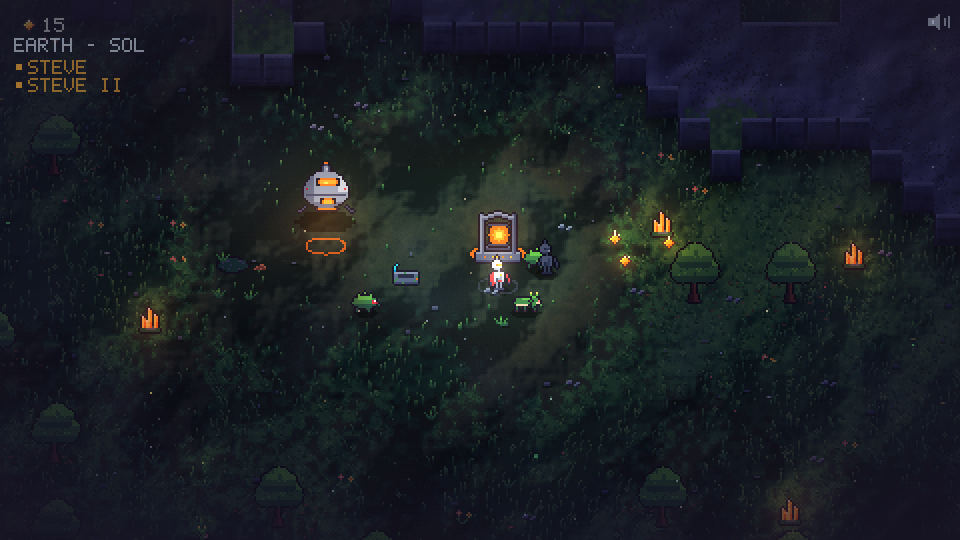
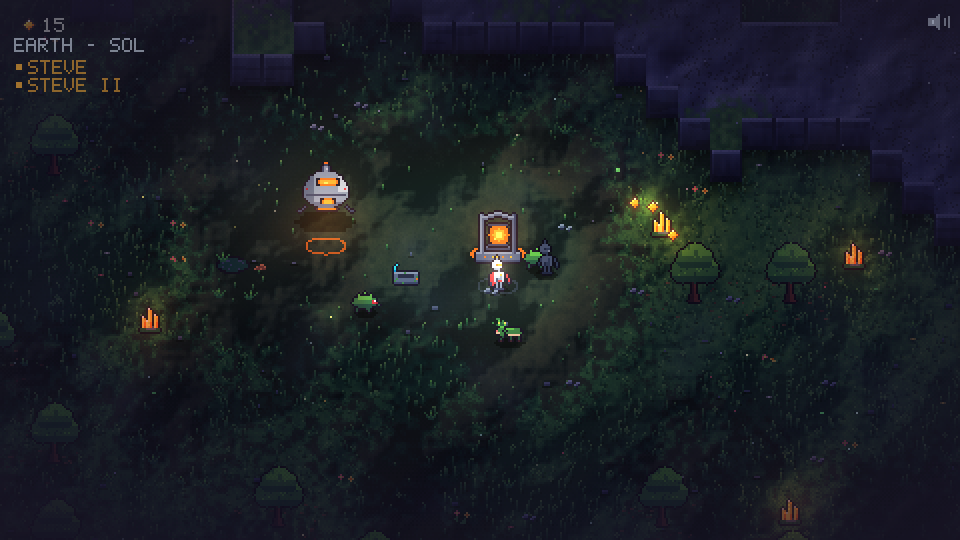
Needs: food, water, company, purpose; furnishings that do something
Copies now have needs (src/data/needs.json) that tick live and from banked
offline time: they eat and drink from the supplies when low, fill company
near the original or each other, and purpose with finished work and wants
met. Mood scales their light. Lamps in the warren stretch waking hours,
murals lift mood, shelves add storage, pools give water, planters food.
The mind is told how it feels; the journal shows it.

Claude-Session: https://claude.ai/code/session_01GKvm73nq8gpKr5haLG8Y51

Changed region(s): [[0.625, 0.3556, 0.7188, 0.4741], [0.625, 0.4148, 0.6875, 0.5037], [0.5, 0.5333, 0.5625, 0.6222]]

diff --git a/src/entities/Npc.ts b/src/entities/Npc.ts
@@ -4,8 +4,9 @@ import Phaser from 'phaser';
 import { sound, type Instrument, type Mood, type Tempo } from '../audio/Sound';
 import { anim } from '../core/assets';
 import { bodyFor, ensureBodyTexture, kitColor } from '../core/body';
-import { MIND, PALETTE, PLAYER, VILLAGE, WARREN } from '../core/data';
+import { MIND, NEEDS, PALETTE, PLAYER, VILLAGE, WARREN } from '../core/data';
 import { DRIFT, stat } from '../core/drift';
+import { session } from '../core/session';
 import type { Light } from '../fx/Lighting';
 import type { ReplicantSave } from '../net/store';
 import type { PlanetScene } from '../scenes/PlanetScene';
@@ -46,6 +47,10 @@ export class Npc {
   z = 0;
   /** 0 rested .. 1 weary: climbs while awake, cleared by a sleep in a resting station */
   weary = 0;
+  /** food, water, company, purpose: 0 empty .. 1 full (src/data/needs.json) */
+  needs: { food: number; water: number; company: number; purpose: number };
+  private nextNeedsSave = 0;
+  private nextEat = 0;
   private nextYawn = 0;
   /** the night level at which this copy turns in: its chosen bedtime, else early birds and night owls from its id */
   private seedNight: number;
@@ -75,8 +80,70 @@ export class Npc {
     this.seedNight = lo + ((this.voiceSeed >>> 8) % 100) / 100 * (hi - lo);
     // how tired it is carries over; a copy that slept while you were away comes back rested (Warren checks the bed)
     this.weary = data.traits.weary ?? Math.min(0.6, ((this.voiceSeed >>> 16) % 100) / 160);
+    this.needs = { food: 0.8, water: 0.8, company: 0.7, purpose: 0.7, ...(data.traits.needs ?? {}) };
     this.sync();
     if (data.traits.blank) this.setBlank();
+  }
+
+  /** rest, food, water, company and purpose averaged, lifted a little by the warren's murals. */
+  get mood() {
+    const n = this.needs;
+    const base = (1 - this.weary + n.food + n.water + n.company + n.purpose) / 5;
+    return Math.min(1, base + Math.min(NEEDS.muralMoodMax, this.scene.warren.muralCount * NEEDS.muralMood));
+  }
+  get moodWord(): 'content' | 'low' | 'bleak' { const m = this.mood; return m > 0.6 ? 'content' : m > 0.35 ? 'low' : 'bleak'; }
+  /** Which needs are low, in words ("hungry (food 20%)"). */
+  lowNeeds(): string[] {
+    const out: string[] = [];
+    const n = this.needs, pct = (v: number) => `${Math.round(v * 100)}%`;
+    if (this.weary > 0.8) out.push(`weary (rest ${pct(1 - this.weary)})`);
+    if (n.food < NEEDS.lowBelow) out.push(`hungry (food ${pct(n.food)})`);
+    if (n.water < NEEDS.lowBelow) out.push(`thirsty (water ${pct(n.water)})`);
+    if (n.company < NEEDS.lowBelow) out.push(`lonely (company ${pct(n.company)})`);
+    if (n.purpose < NEEDS.lowBelow) out.push(`aimless (purpose ${pct(n.purpose)})`);
+    return out;
+  }
+
+  /** Finished something: purpose fills (more for a want met). */
+  onWorked(want = false) {
+    this.needs.purpose = Math.min(1, this.needs.purpose + (want ? NEEDS.purposeOnWant : NEEDS.purposeOnWork));
+  }
+
+  /** Needs change with time, here or while nobody was here (hours); eats and drinks from the supplies. */
+  advanceNeeds(hours: number, time: number) {
+    const n = this.needs, d = NEEDS.decayHours;
+    n.food = Math.max(0, n.food - hours / d.food);
+    n.water = Math.max(0, n.water - hours / d.water);
+    n.purpose = Math.max(0, n.purpose - hours / d.purpose);
+    const soc = this.temper?.sociability;
+    const p = this.scene.player;
+    const near = (!this.scene.visit && p.alive && Math.hypot(p.x - this.x, p.y - this.y) < NEEDS.companyNearPx)
+      || this.scene.npcs.some((o) => o !== this && !o.below && Math.hypot(o.x - this.x, o.y - this.y) < NEEDS.companyNearPx * 0.7);
+    const rate = soc === 'solitary' ? 0.5 : soc === 'clingy' ? 1.5 : 1;
+    n.company = near && hours < 0.01 ? Math.min(1, n.company + (hours * NEEDS.companyGainPerHour) / rate) : Math.max(0, n.company - (hours * rate) / d.company);
+    // eat and drink from the shared supplies when low (one unit each, a short while apart)
+    if (time > this.nextEat) {
+      const w = this.scene.warren;
+      for (const [need, mat] of [['food', 'food'], ['water', 'water']] as const) {
+        if (n[need] < NEEDS.eatBelow && (w.supplies[mat] ?? 0) >= 1) {
+          w.supplies[mat] -= 1; this.scene.markSupplies();
+          n[need] = Math.min(1, n[need] + NEEDS.restoreOnEat);
+          this.nextEat = time + 4000;
+          if (hours < 0.01) this.scene.fx.floatIcon(this.x, this.y - 22, 'supplies', (mat === 'food' ? 4 : 3));
+        }
+      }
+    }
+  }
+
+  /** Writes needs and weariness to its row now and then (not for screenshot copies). */
+  private saveNeeds(time: number, force = false) {
+    if (!force && time < this.nextNeedsSave) return;
+    this.nextNeedsSave = time + 180_000;
+    const st = session.store;
+    if (!st || this.scene.shot || this.data.id.startsWith('fake') || this.data.id === 'pending') return;
+    this.data.traits.needs = { ...this.needs };
+    this.data.traits.weary = Math.round(this.weary * 100) / 100;
+    st.saveReplicant(this.data).catch(() => undefined);
   }
 
   /** Born blank: grey, dim and still by the Replicator until its first wake makes it itself. */
@@ -224,6 +291,7 @@ export class Npc {
           if (this.swings >= c.swings) {
             this.chore = null;
             c.done();
+            this.onWorked();
             this.hop();
             this.state = 'idle';
             this.until = time + 1500;
@@ -241,6 +309,7 @@ export class Npc {
           const job = this.job!;
           if (this.swings >= VILLAGE.hammerSwings) {
             this.scene.village.complete(job);
+            this.onWorked();
             this.job = null;
             if (dp < 220) sound.build();
             this.hop();
@@ -270,9 +339,13 @@ export class Npc {
         break;
     }
 
-    // weariness builds while awake; a weary copy is slower, dimmer, and yawns now and then
-    this.weary = Math.min(1, this.weary + dt / (WARREN.rest.wearyAfterMinutes * 60_000));
-    this.light.intensity = 0.75 * (1 - 0.45 * this.weary);
+    // weariness builds while awake (lamps in the warren slow it); needs tick; the light shows the mood
+    const lampBonus = Math.min(NEEDS.lampWakeMax, this.scene.warren.lampCount * NEEDS.lampWakeBonus);
+    this.weary = Math.min(1, this.weary + ((1 - lampBonus) * dt) / (WARREN.rest.wearyAfterMinutes * 60_000));
+    this.advanceNeeds(dt / 3_600_000, time);
+    this.saveNeeds(time);
+    const [lo, hi] = NEEDS.moodLight;
+    this.light.intensity = 0.75 * (lo + (hi - lo) * this.mood) * (1 - 0.3 * this.weary);
     if (this.weary > 0.7 && time > this.nextYawn && (this.state === 'idle' || this.state === 'walk')) {
       this.nextYawn = time + 9000 + Math.random() * 12000;
       squash(this.scene, this.sprite, 0.9, 1.12, 260);

diff --git a/src/scenes/PlanetScene.ts b/src/scenes/PlanetScene.ts
@@ -1252,6 +1252,8 @@ export class PlanetScene extends Phaser.Scene {
       hasWorkbench: this.warren.hasWorkbench,
       entranceDug: this.warren.opened,
       shortages: this.warren.shortages(),
+      needs: npc.lowNeeds(),
+      mood: npc.moodWord,
       wants: (npc.data.traits.wants ?? []).map((w, i) => `${i + 1}. ${w.text} (${w.category}${w.done ? ', done' : ''})`),
       planet: this.placeLabel,
       biome: this.planet.subtitle ?? this.planet.id,
@@ -1339,7 +1341,9 @@ export class PlanetScene extends Phaser.Scene {
           this.mindLog.push({ t: this.mindClock, text: `${was} became itself: it is ${npc.data.name} now` });
           this.game.events.emit('notice', hear ? `${was.toUpperCase()} IS ${npc.data.name.toUpperCase()} NOW` : `${was.toUpperCase()} HAS BECOME ITSELF`);
         } else if (a.type === 'wants' && a.wants) {
+          const before = (npc.data.traits.wants ?? []).filter((w) => w.done).length;
           npc.data.traits.wants = a.wants;
+          if (a.wants.filter((w) => w.done).length > before) { npc.onWorked(true); this.mindLog.push({ t: this.mindClock, text: `${npc.data.name} got something it wanted` }); }
         } else if (a.type === 'dig') {
           this.warren.dig(npc, a);
         } else if (a.type === 'furnish') {
@@ -1455,7 +1459,9 @@ export class PlanetScene extends Phaser.Scene {
     for (const r of this.everyone) names[r.id] = r.name;
     if (session.replicant) names[session.replicant.id] = session.replicant.name;
     const nameOf = (id: string) => names[id] ?? this.npcs.find((n) => n.data.id === id)?.data.name ?? 'someone';
-    openJournal({ place: this.placeLabel, canHear: this.canHear(), copies: this.npcs.map((n) => n.data), names, journal: j, warren: this.warren.data.rooms.length ? describeWarren(this.warren.data, null, nameOf) : [], supplies: this.npcs.length ? this.warren.describeSupplies() : undefined, shortages: this.warren.shortages() });
+    const feelings: Record<string, string> = {};
+    for (const n of this.npcs) feelings[n.data.id] = `${n.moodWord}${n.lowNeeds().length ? ': ' + n.lowNeeds().join(', ') : ''}`;
+    openJournal({ place: this.placeLabel, canHear: this.canHear(), copies: this.npcs.map((n) => n.data), names, journal: j, feelings, warren: this.warren.data.rooms.length ? describeWarren(this.warren.data, null, nameOf) : [], supplies: this.npcs.length ? this.warren.describeSupplies() : undefined, shortages: this.warren.shortages() });
   }
 
   /** Copies bring in what they gathered while you were away: a stream of Embers into the Replicator. */

diff --git a/src/entities/Warren.ts b/src/entities/Warren.ts
@@ -150,6 +150,16 @@ export class Warren {
     this.scene.markSupplies();
   }
 
+  /** Lamps and murals in dug rooms: lamps stretch the copies' waking hours, murals lift their mood. */
+  get lampCount() {
+    const dug = new Set(['entrance', ...this.data.rooms.filter((r) => r.dug).map((r) => r.id)]);
+    return this.data.items.filter((i) => i.kind === 'lamp' && dug.has(i.room)).length;
+  }
+  get muralCount() {
+    const dug = new Set(['entrance', ...this.data.rooms.filter((r) => r.dug).map((r) => r.id)]);
+    return this.data.items.filter((i) => i.kind === 'mural' && dug.has(i.room)).length;
+  }
+
   get hasWorkbench() {
     const dug = new Set(['entrance', ...this.data.rooms.filter((r) => r.dug).map((r) => r.id)]);
     return this.data.items.some((i) => i.kind === 'workbench' && dug.has(i.room));
@@ -184,6 +194,8 @@ export class Warren {
     if (hours <= 0.05) return;
     for (const [m, perHour] of Object.entries(this.production())) this.add(m, perHour * hours);
     if (!this.scene.npcs.length) return;
+    // the copies got hungry, thirsty and lonely meanwhile, and ate what there was
+    for (const n of this.scene.npcs) n.advanceNeeds(hours, 0);
     let dug = 0;
     if (!this.data.entrance!.dug && hours >= 0.25) { this.data.entrance!.dug = true; this.add('stone', SUPPLIES.entrance.yield.stone); this.add('soil', SUPPLIES.entrance.yield.soil); dug++; }
     for (const r of [...this.planned].sort((a, b) => a.at - b.at)) {
@@ -414,6 +426,7 @@ export class Warren {
         this.view?.onSwing(b);
         if (b.swings >= WARREN.digSwings[room.size]) {
           this.completeRoom(room, b.npc);
+          b.npc.onWorked();
           this.afterWork(b);
         }
       } else if (b.task === 'furnish') {
@@ -422,7 +435,7 @@ export class Warren {
         b.nextSwingAt = this.clock + WARREN.swingMs;
         this.view?.onSwing(b);
         if (b.swings >= 5) {
-          this.furnish(b.npc, { type: 'furnish', item: 'rest', room: b.room!.name, forId: b.npc.data.id });
+          if (this.furnish(b.npc, { type: 'furnish', item: 'rest', room: b.room!.name, forId: b.npc.data.id })) b.npc.onWorked();
           this.afterWork(b);
         }
       } else if (this.clock >= b.until) {

diff --git a/supabase/functions/mind/index.ts b/supabase/functions/mind/index.ts
@@ -49,6 +49,8 @@ interface Context {
   hasWorkbench?: boolean;
   entranceDug?: boolean;
   shortages?: string[];
+  needs?: string[];               // low needs in words
+  mood?: "content" | "low" | "bleak";
 }
 
 interface Replicant {
@@ -301,6 +303,7 @@ Deno.serve(async (req) => {
     lines.push(context.where === "warren" ? `You are below, in the warren.` : `You are on the surface by the base.`);
     if (context.around?.length) lines.push(`Around you: ${context.around.join("; ")}.`);
     lines.push(`You are ${context.weariness ?? "rested"}.${context.hasRest ? "" : context.warren?.length ? " You have no resting station of your own: furnish a dug room with item rest, for me." : " You have nowhere to sleep yet."}`);
+    lines.push(`You feel ${context.mood ?? "content"}${context.needs?.length ? `: ${context.needs.join(", ")}` : ""}. (Food comes from planters and gardens, water from a pool, company from the others and the original, purpose from finished work and wants met. A low need is a good reason for a want.)`);
     if (context.warren?.length) lines.push(`The warren (${context.warrenFull ? "no room for more digging" : "there is space to dig more"}):\n${context.warren.join("\n")}\nYou may name these rooms: ${(context.warrenRooms ?? []).join(", ")}.`);
     else lines.push(`Nothing is dug beneath the base yet. The warren begins with the first dig_room (beside "Entrance").`);
     if (context.supplies) {

diff --git a/src/net/store.ts b/src/net/store.ts
@@ -29,6 +29,8 @@ export interface ReplicantSave {
     body?: Body;
     temperament?: Temperament;
     wants?: Want[];
+    /** 0 empty .. 1 full (src/data/needs.json); rest is 1 - weary */
+    needs?: { food: number; water: number; company: number; purpose: number };
   };
   stats?: Partial<Record<'speed' | 'light' | 'gather', number>>;
   parent_id?: string | null;
@@ -165,6 +167,9 @@ export interface MindContext {
   entranceDug: boolean;
   /** what waits on what ("Hearth waits for 2 more wood") */
   shortages: string[];
+  /** how it feels: low needs in words, and the mood they add up to */
+  needs: string[];
+  mood: 'content' | 'low' | 'bleak';
 }
 export interface Voice { instrument: string; mood: string; tempo: string }
 export interface Body { head: string; visor: string; torso: string; arms: string; legs: string; back: string; headgear: number; primary: string; secondary: string; accent: string }

diff --git a/src/ui/journal.ts b/src/ui/journal.ts
@@ -72,6 +72,8 @@ export interface JournalView {
   supplies?: string;
   /** what waits on what */
   shortages?: string[];
+  /** mood and low needs per copy id */
+  feelings?: Record<string, string>;
 }
 
 let open: HTMLElement | null = null;
@@ -99,6 +101,7 @@ export function openJournal(v: JournalView) {
     const t = c.traits.temperament;
     if (c.traits.blank) parts.push(`<p class="mute">${v.canHear ? 'Not yet itself. It has not chosen.' : runes('not yet itself')}</p>`);
     else if (t) parts.push(`<p class="mute">${show(`${t.pace}, ${t.sociability}, ${t.work === 'balanced' ? 'works and wanders' : t.work}, ${t.bedtime} to bed, ${t.risk}`)}</p>`);
+    if (v.feelings?.[c.id]) parts.push(`<p class="mute">${show(v.feelings[c.id])}</p>`);
     const wants = c.traits.wants ?? [];
     if (wants.length) {
       parts.push(`<div class="k">WANTS</div>`);

diff --git a/src/core/data.ts b/src/core/data.ts
@@ -12,6 +12,7 @@ import beaconJson from '../data/beacon.json';
 import mindJson from '../data/mind.json';
 import warrenJson from '../data/warren.json';
 import suppliesJson from '../data/supplies.json';
+import needsJson from '../data/needs.json';
 
 export interface PlanetDef {
   id: string;
@@ -62,6 +63,7 @@ export const DAYCYCLE = dayJson;
 export const VILLAGE = villageJson;
 export const WARREN = warrenJson;
 export const SUPPLIES = suppliesJson;
+export const NEEDS = needsJson;
 export const BEACON = beaconJson;
 export const MIND = mindJson;
 export type GuardianDef = (typeof beaconJson)['guardian'];

diff --git a/src/fx/Fx.ts b/src/fx/Fx.ts
@@ -62,8 +62,8 @@ export class Fx {
   }
 
   /** Small icon that floats up from a point and fades: used for collected resources. */
-  floatIcon(x: number, y: number, key: string) {
-    const icon = this.scene.add.image(Math.round(x), Math.round(y), key).setDepth(6300);
+  floatIcon(x: number, y: number, key: string, frame = 0) {
+    const icon = this.scene.add.image(Math.round(x), Math.round(y), key, frame).setDepth(6300);
     this.scene.tweens.add({ targets: icon, y: y - 18, alpha: { from: 1, to: 0 }, duration: 750, ease: 'Quad.easeOut', onComplete: () => icon.destroy() });
   }
 }
